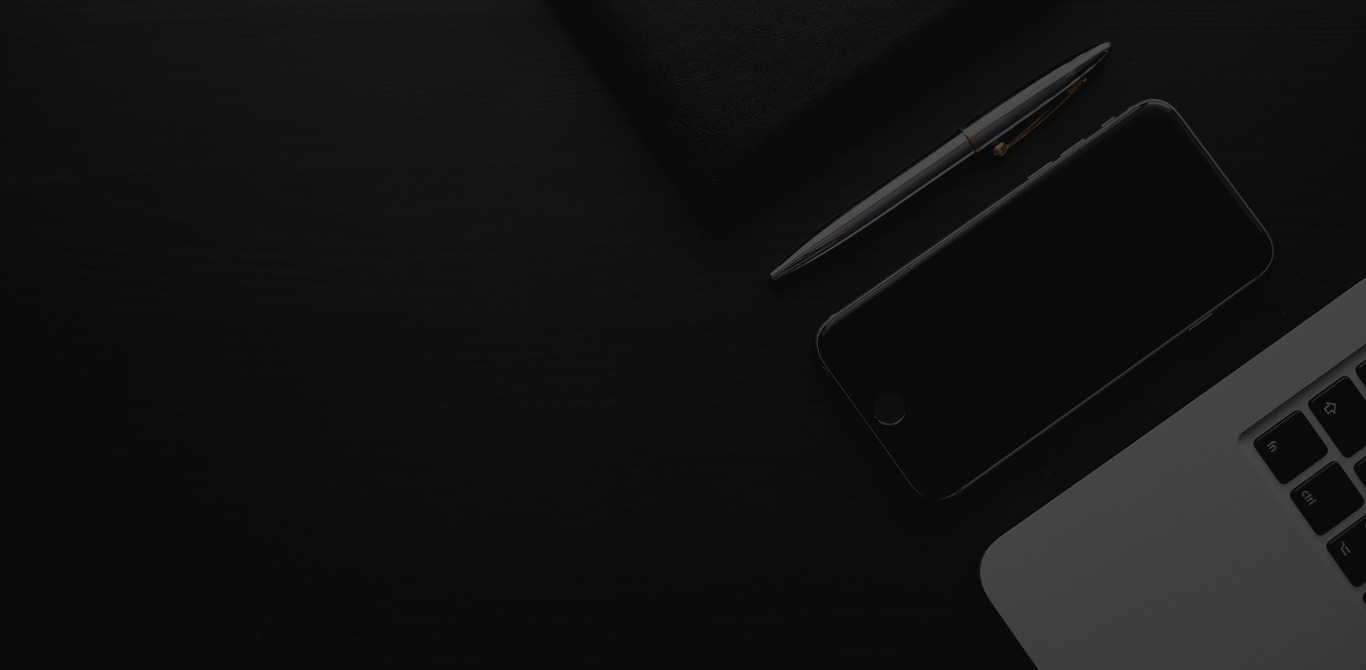
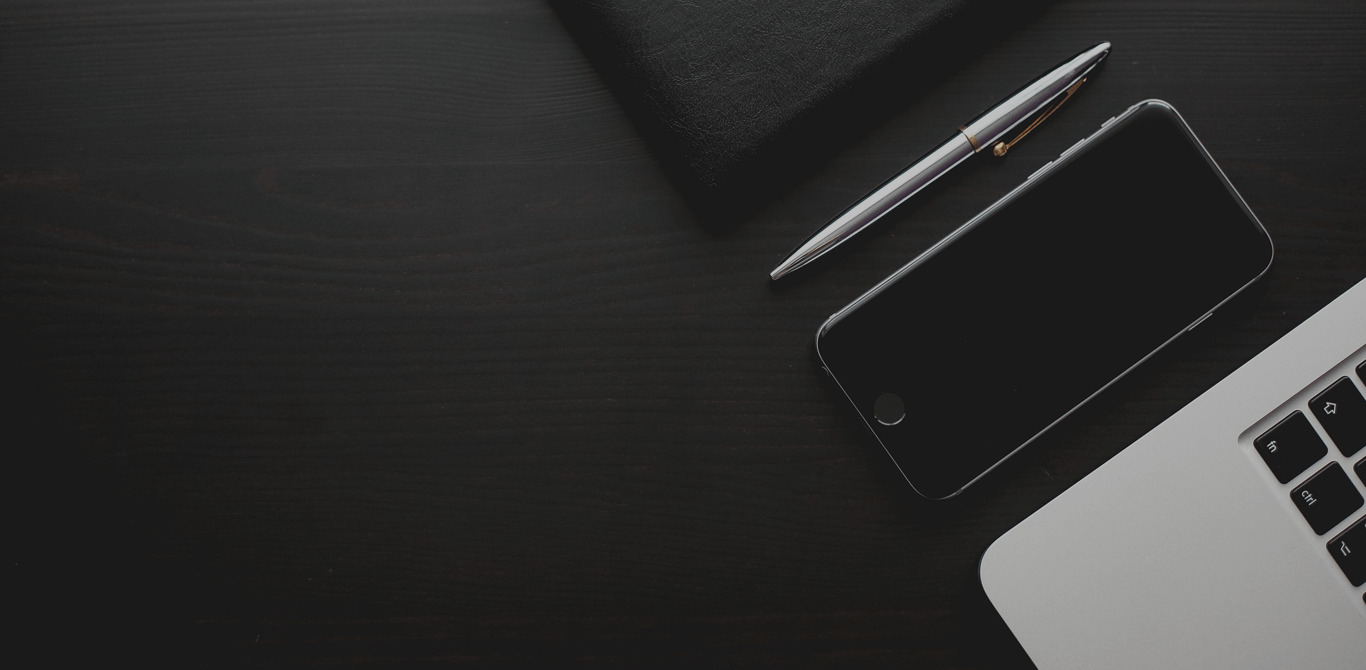
Updated front page

diff --git a/src/App.js b/src/App.js
@@ -9,6 +9,7 @@ import { browserHistory } from 'react-router';
 import HomePage from './pages/homePage.js';
 import About from './pages/aboutPage.js';
 import NavBar from './headerComponent/navBar.js';
+
 import Footer from './footerComponent/footer.js';
 import Projects from './pages/projectPage.js';
 import './App.css';
@@ -20,24 +21,10 @@ class App extends Component {
       <Router>
         <div>
           <NavBar />
-          <main id="page-wrap">
-            <div className="main">
-              <div className="container">
-                <div className="row">
-                  <div className="col-sm-12">
-                    <div className="well">
-                      <div className="">
-                        <Route name="home" exact path="/" component={HomePage} />
+
+                      <Route name="home" exact path="/" component={HomePage} />
                         <Route path="/about" component={About} />
                         <Route path="/projects" component={Projects} />
-                     </div>
-                   </div>
-                </div>
-              </div>
-            </div>
-          </div>
-        </main>
-            <Footer />
           </div>
       </Router>
       </div>

diff --git a/src/headerComponent/slider.js b/src/headerComponent/slider.js
@@ -1,0 +1,34 @@
+import React, { Component } from 'react';
+import Slider from "react-slick";
+import logo from '../bg.jpg';
+
+class SimpleSlider extends Component {
+  render() {
+    var settings = {
+      dots: true,
+      infinite: true,
+      speed: 500,
+      slidesToShow: 1,
+      slidesToScroll: 1
+    };
+    return (
+      <Slider {...settings}>
+        <div>
+        <img src={logo}></img>
+        <aside>
+        <h1 className="mt-3">Paul Mackey</h1>
+        <p>Web Developer</p>
+        <p className="">Irish Web Headquarters</p>
+        <div className="social-icons">
+        <a target="_blank" rel="noopener noreferrer" href="https://github.com/paulmackey"><i className="fa fa-github"></i></a>
+  <a target="_blank" rel="noopener noreferrer" href="https://www.linkedin.com/in/paul-mackey-25543098/" ><i className="fa fa-linkedin"></i></a>
+  </div>
+        <p className="text-emoji">\ (•◡•) /</p>
+        </aside>
+        </div>
+      </Slider>
+    );
+  }
+}
+
+export default SimpleSlider;

diff --git a/src/pages/homePage.js b/src/pages/homePage.js
@@ -1,21 +1,13 @@
 import React, { Component } from 'react';
 import logo from '../profiler.jpg';
 
+import SimpleSlider from '../headerComponent/slider.js';
+
 class HomePage extends Component {
   render() {
     return (
 <div className="home">
-      <div className="wrapper m-5">
-
-      <h1 className="mt-3">Paul Mackey</h1>
-      <p>Web Developer</p>
-      <p className="">Irish Web Headquarters</p>
-      <div className="social-icons">
-      <a target="_blank" rel="noopener noreferrer" href="https://github.com/paulmackey"><i className="fa fa-github"></i></a>
-<a target="_blank" rel="noopener noreferrer" href="https://www.linkedin.com/in/paul-mackey-25543098/" ><i className="fa fa-linkedin"></i></a>
-</div>
-      <p className="text-emoji">\ (•◡•) /</p>
-      </div>
+        <SimpleSlider/>
       </div>
     )
   }

diff --git a/src/App.css b/src/App.css
@@ -3,6 +3,9 @@
 
 /** GENERAL **/
 
+@import "~slick-carousel/slick/slick.css";
+@import "~slick-carousel/slick/slick-theme.css";
+
 body {
   font-family: 'Roboto', sans-serif;
   color: rgb(96, 125, 139);
@@ -12,7 +15,7 @@ p {
   font-size: 15px;
 }
 
-h1, h2, h3, p {
+aside h1, aside h2,aside h3,aside  p {
   /* color:rgb(96, 125, 139); */
   color: #fff;
 }
@@ -34,6 +37,13 @@ h1 {
   background: #b4bad2;
 }
 
+aside{
+  position: absolute;
+top: 110px;
+margin: auto;
+text-align: center;
+width: 100%;
+}
 .wrapper {
   font-weight: 100;
   font-size: 3em;

diff --git a/src/headerComponent/navBar.js b/src/headerComponent/navBar.js
@@ -4,7 +4,7 @@ import homeIcon from '../home.png';
 import aboutIcon from '../user.png';
 import logo from '../profiler.jpg';
 import projects from '../folder.png';
-import { pushRotate as Menu } from 'react-burger-menu'
+import { slide as Menu } from 'react-burger-menu'
 
 class NavBar extends Component {
   constructor (props) {
